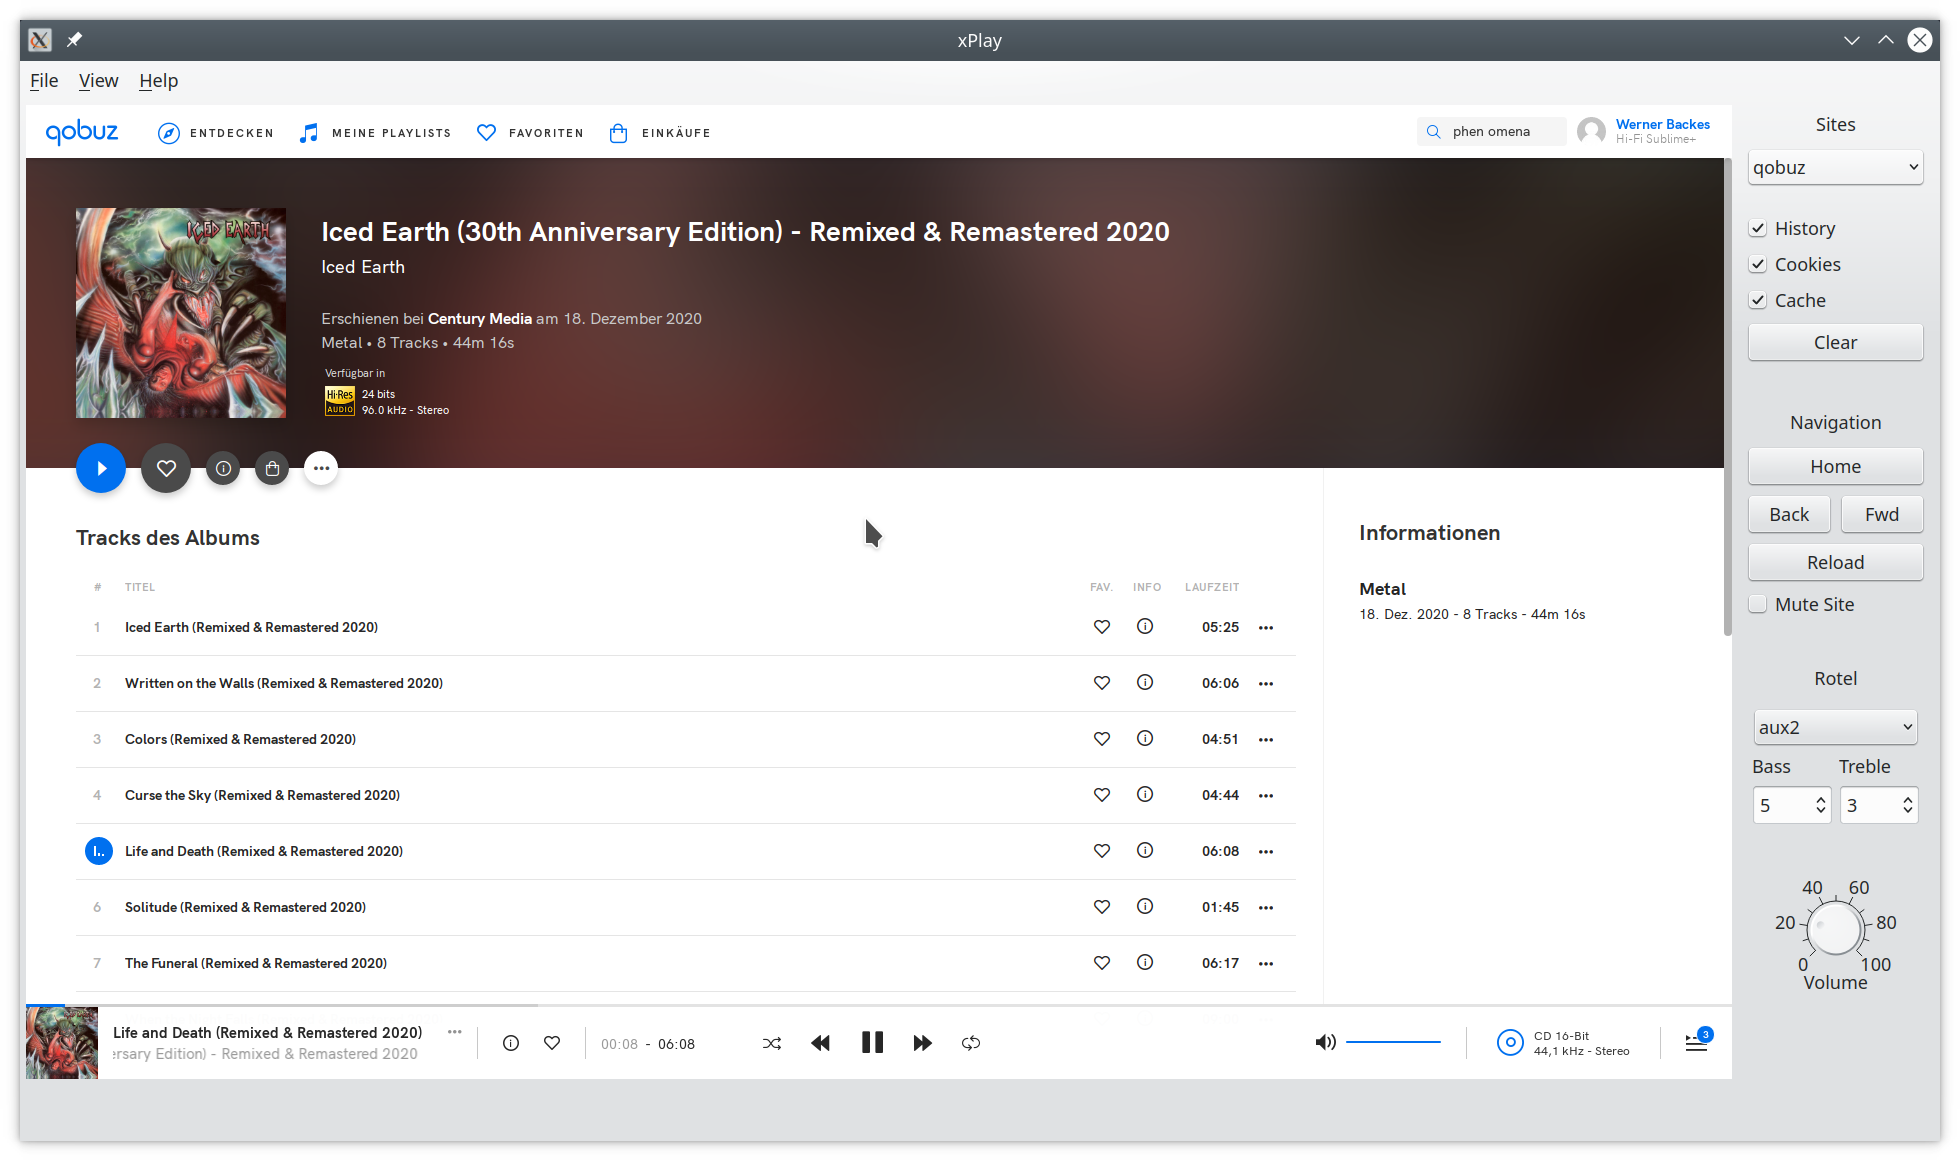
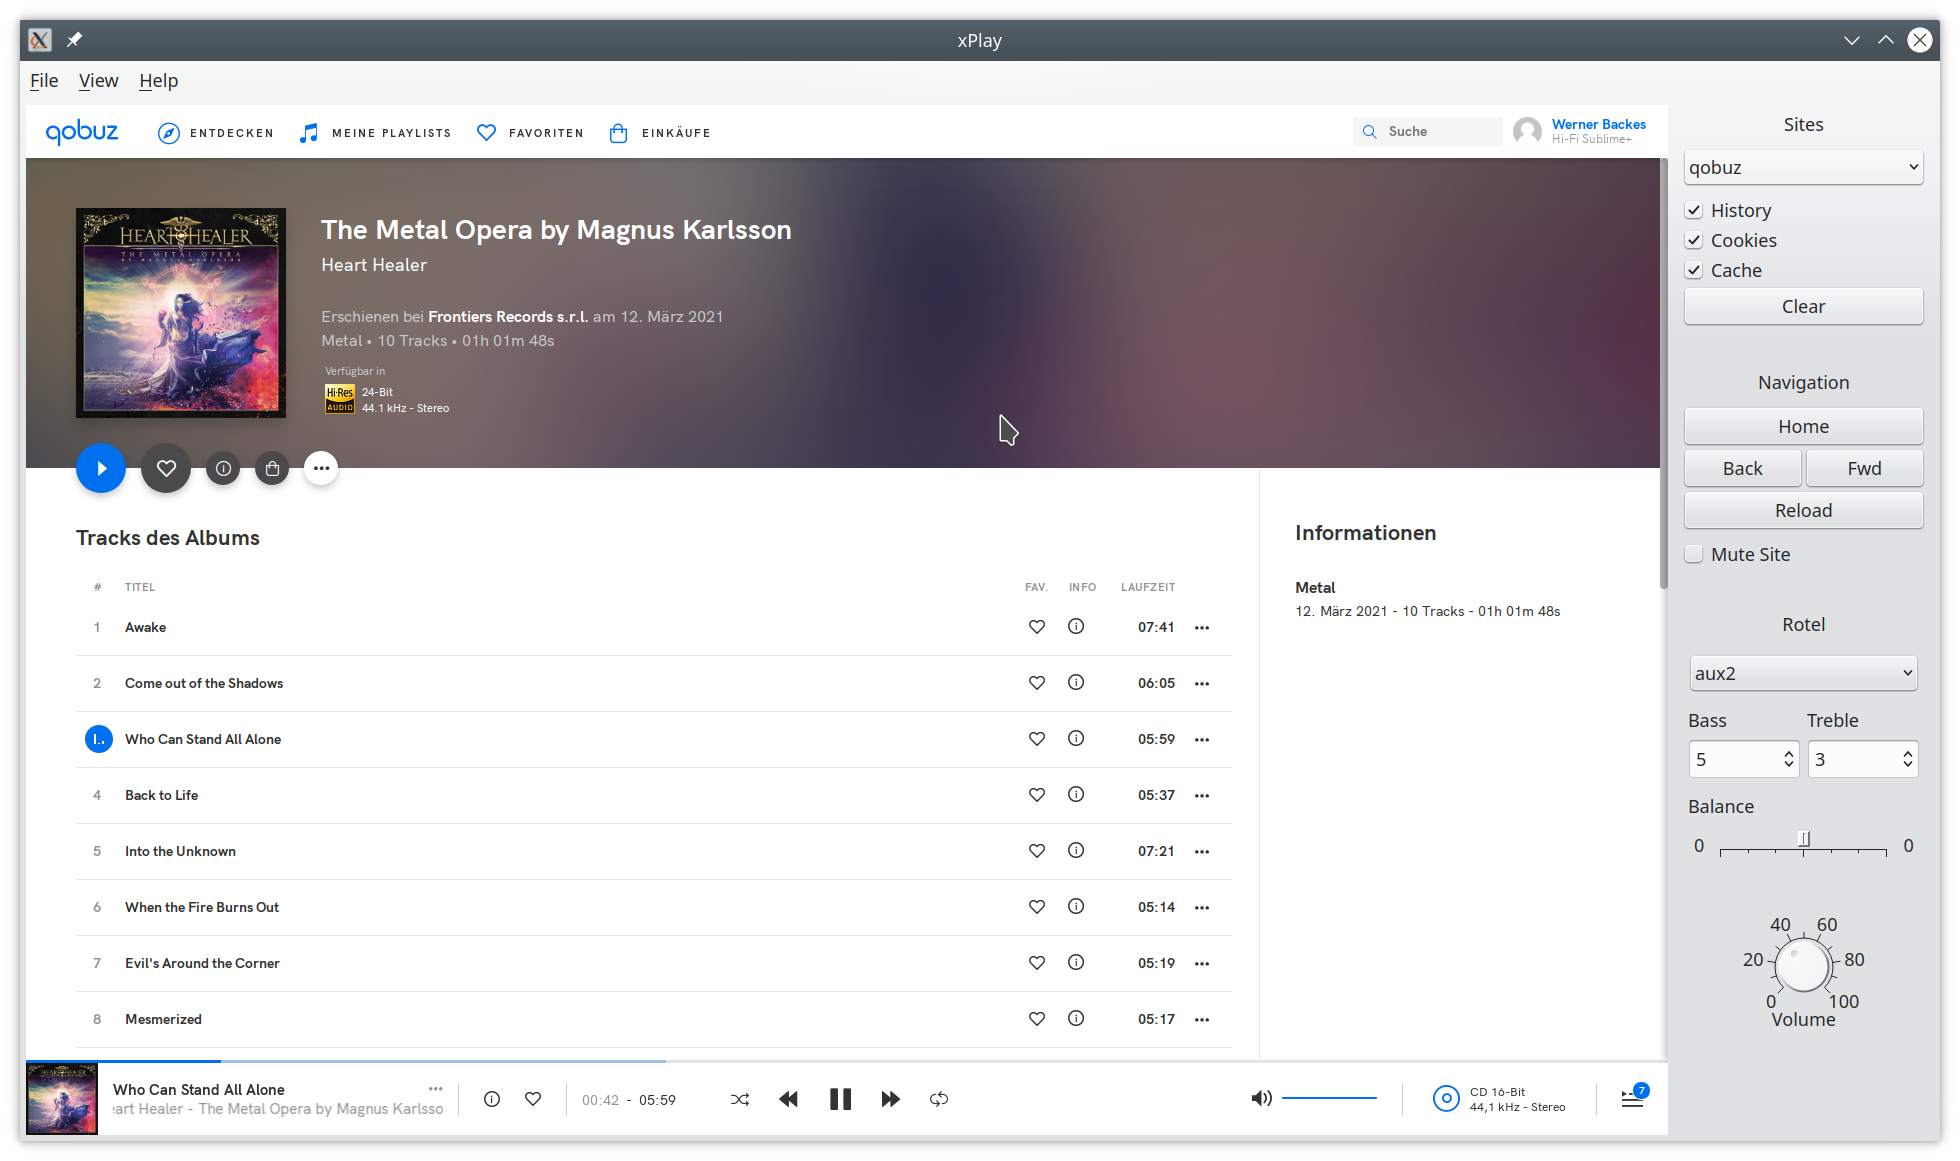
Update CHANGELOG.md, README.md and BUGS. Update version number.

diff --git a/xPlay.cpp b/xPlay.cpp
@@ -152,7 +152,7 @@ int main(int argc, char* argv[])
 {
     QApplication playApp(argc, argv);
     QApplication::setApplicationName("xPlay");
-    QApplication::setApplicationVersion("0.6.2");
+    QApplication::setApplicationVersion("0.6.3");
     QCommandLineParser playAppParser;
     if (handleCommandLine(playApp, playAppParser)) {
         // Exit if the command line was handled.

diff --git a/README.md b/README.md
@@ -90,18 +90,18 @@ queue. Then entire album can be queued by a double-click on the corresponding al
 artist entry will queue all albums for the clicked artist. The horizontal artist selector list 
 can be used to filter the artist list by the first character. The filtering is removed if you click on *none*. 
 If a selector is double-clicked then all selected artists with their albums are queue. A double-click on *none* will
-queue the entire music library. The album selector can be used to filter the displayed albums for an artist. The 
-individual selectors can be modified by double-click. A selector in white is currently not used. Selectors in green
-(at least one of them) must be found in the album name. Red represents not matched selectors. An album cannot 
-contain any of the selectors in red as part of its album name. The filtering done by the album selector does also
-apply whenever an artist or artist selector is queued. By marking the *(live)* album selector in red and then
-double-click on an artist will queue all albums except the ones containing *(live)*.
-The queue does support a shuffle mode in which the queued tracks will be played at random. The jump to an individual 
-track in the queue or the deque of a single track is not supported in shuffle mode. Each track of the queue has a
-tooltip showing the artist and album the track belongs to.
-The playlist dialog box will open upon pressing the *PlayList* button at the botton of the queue. It allows to
-save the current queue as playlist into the database for later use. The dialog allows for loading playlists that
-are stored in the database or remove any of the stored playlists (including their entries).
+queue the entire music library. The artist selector *random* will randomize the list of artists. A double-click on
+*random* will randomize the artist list again and not add any tracks to the queue. The album selector can be used to
+filter the displayed albums for an artist. The individual selectors can be modified by double-click. A selector in white
+is currently not used. Selectors in green (at least one of them) must be found in the album name. Red represents not
+matched selectors. An album cannot contain any of the selectors in red as part of its album name. The filtering done by
+the album selector does also apply whenever an artist or artist selector is queued. By marking the *(live)* album
+selector in red and then double-click on an artist will queue all albums except the ones containing *(live)*. The queue
+does support a shuffle mode in which the queued tracks will be played at random. The jump to an individual track in the
+queue or the deque of a single track is not supported in shuffle mode. Each track of the queue has a tooltip showing the
+artist and album the track belongs to. The playlist dialog box will open upon pressing the *PlayList* button at the
+botton of the queue. It allows to save the current queue as playlist into the database for later use. The dialog allows
+for loading playlists that are stored in the database or remove any of the stored playlists (including their entries).
 
 The database overlay (if activated) marks every artist, album and track with a star (*) if it has been played within 
 the configured time period. For each track a tooltip is added that shows how many times this track has been 

diff --git a/CHANGELOG.md b/CHANGELOG.md
@@ -1,5 +1,12 @@
 # Changelog
 
+## 0.6.3 - 2021-03-15
+
+- Add sync between database and library for music and movie.
+- Add balance slider for rotel widget.
+- Add "random" artist selector.
+- Some UI layout adjustments.
+
 ## 0.6.2 - 2021-01-31
 
 - Update error recovery code for phonon music player.
